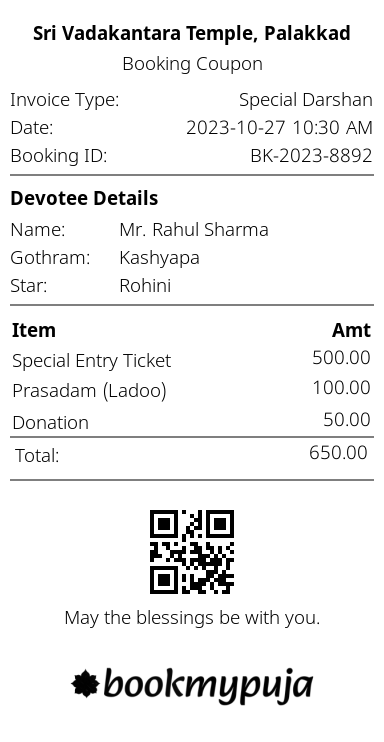
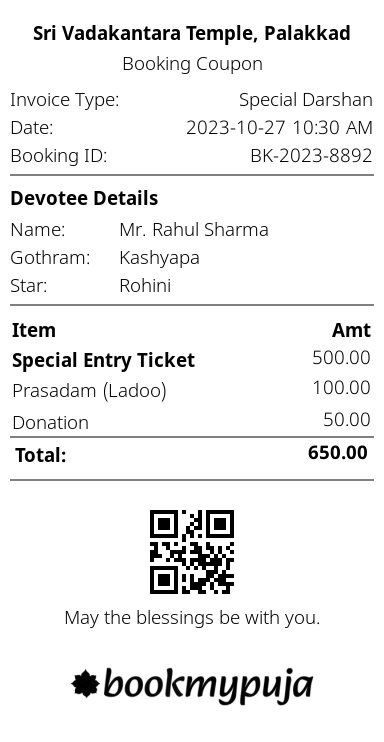
robust table cell formatting

Changed region(s): [[0.0312, 0.465, 0.5, 0.496], [0.7812, 0.5889, 0.9688, 0.6199], [0.0312, 0.5889, 0.1562, 0.6199]]

diff --git a/src/blocks/table_block.c b/src/blocks/table_block.c
@@ -12,9 +12,18 @@ typedef struct {
 } TableColumn;
 
 typedef struct {
+  char *content;
+  struct {
+    int font_size;        // 0 means inherit
+    char font_weight[32]; // empty means inherit
+    char align[16];       // empty means inherit
+  } format;
+} TableCell;
+
+typedef struct {
   TableColumn *columns;
   int column_count;
-  char ***rows; // Array of rows, each row is array of strings
+  TableCell **rows; // Array of rows, each row is array of TableCell
   int row_count;
   struct {
     struct {
@@ -79,7 +88,7 @@ static void *table_block_parse(json_object *json) {
       json_object_is_type(rows_arr, json_type_array)) {
 
     data->row_count = json_object_array_length(rows_arr);
-    data->rows = calloc(data->row_count, sizeof(char **));
+    data->rows = calloc(data->row_count, sizeof(TableCell *));
 
     for (int i = 0; i < data->row_count; i++) {
       json_object *row_arr = json_object_array_get_idx(rows_arr, i);
@@ -87,10 +96,32 @@ static void *table_block_parse(json_object *json) {
         int cols = json_object_array_length(row_arr);
         int safe_cols = (cols < data->column_count) ? cols : data->column_count;
 
-        data->rows[i] = calloc(data->column_count, sizeof(char *));
+        data->rows[i] = calloc(data->column_count, sizeof(TableCell));
         for (int j = 0; j < safe_cols; j++) {
-          json_object *cell = json_object_array_get_idx(row_arr, j);
-          data->rows[i][j] = strdup(json_object_get_string(cell));
+          json_object *cell_obj = json_object_array_get_idx(row_arr, j);
+
+          if (json_object_is_type(cell_obj, json_type_string)) {
+            // Legacy string format
+            data->rows[i][j].content = strdup(json_object_get_string(cell_obj));
+          } else if (json_object_is_type(cell_obj, json_type_object)) {
+            // New object format
+            json_object *val;
+            if (json_object_object_get_ex(cell_obj, "content", &val)) {
+              data->rows[i][j].content = strdup(json_object_get_string(val));
+            }
+
+            if (json_object_object_get_ex(cell_obj, "format", &val)) {
+              json_object *f_val;
+              if (json_object_object_get_ex(val, "font_size", &f_val))
+                data->rows[i][j].format.font_size = json_object_get_int(f_val);
+              if (json_object_object_get_ex(val, "font_weight", &f_val))
+                strncpy(data->rows[i][j].format.font_weight,
+                        json_object_get_string(f_val), 31);
+              if (json_object_object_get_ex(val, "align", &f_val))
+                strncpy(data->rows[i][j].format.align,
+                        json_object_get_string(f_val), 15);
+            }
+          }
         }
       }
     }
@@ -206,11 +237,20 @@ static int table_block_calculate_height(void *ptr, int width) {
     int max_row_h = 0;
     if (data->rows[r]) {
       for (int c = 0; c < data->column_count; c++) {
-        if (data->rows[r][c]) {
-          int h = calculate_cell_height(
-              cr, data->rows[r][c],
-              col_widths[c] - (2 * data->format.cell_padding),
-              DEFAULT_FONT_WEIGHT, data->format.font_size);
+        if (data->rows[r][c].content) {
+          // Determine font size and weight for this cell
+          int font_size = data->rows[r][c].format.font_size;
+          if (font_size == 0)
+            font_size = data->format.font_size;
+
+          const char *font_weight = data->rows[r][c].format.font_weight;
+          if (font_weight[0] == '\0')
+            font_weight = DEFAULT_FONT_WEIGHT;
+
+          int h = calculate_cell_height(cr, data->rows[r][c].content,
+                                        col_widths[c] -
+                                            (2 * data->format.cell_padding),
+                                        font_weight, font_size);
           if (h > max_row_h)
             max_row_h = h;
         }
@@ -335,11 +375,20 @@ static void table_block_render(void *ptr, BlockContext *ctx) {
     int max_row_h = 0;
     if (data->rows[r]) {
       for (int c = 0; c < data->column_count; c++) {
-        if (data->rows[r][c]) {
-          int h = calculate_cell_height(
-              ctx->cr, data->rows[r][c],
-              col_widths[c] - (2 * data->format.cell_padding),
-              DEFAULT_FONT_WEIGHT, data->format.font_size);
+        if (data->rows[r][c].content) {
+          // Determine font size and weight for this cell
+          int font_size = data->rows[r][c].format.font_size;
+          if (font_size == 0)
+            font_size = data->format.font_size;
+
+          const char *font_weight = data->rows[r][c].format.font_weight;
+          if (font_weight[0] == '\0')
+            font_weight = DEFAULT_FONT_WEIGHT;
+
+          int h = calculate_cell_height(ctx->cr, data->rows[r][c].content,
+                                        col_widths[c] -
+                                            (2 * data->format.cell_padding),
+                                        font_weight, font_size);
           if (h > max_row_h)
             max_row_h = h;
         }
@@ -350,10 +399,23 @@ static void table_block_render(void *ptr, BlockContext *ctx) {
       int row_height = max_row_h + (2 * data->format.cell_padding);
       int x = current_x;
       for (int c = 0; c < data->column_count; c++) {
-        if (data->rows[r] && data->rows[r][c]) {
-          render_cell(ctx->cr, data->rows[r][c], x, current_y, col_widths[c],
-                      data->columns[c].align, DEFAULT_FONT_WEIGHT,
-                      data->format.font_size, data->format.cell_padding);
+        if (data->rows[r] && data->rows[r][c].content) {
+          // Determine font size, weight, and align for this cell
+          int font_size = data->rows[r][c].format.font_size;
+          if (font_size == 0)
+            font_size = data->format.font_size;
+
+          const char *font_weight = data->rows[r][c].format.font_weight;
+          if (font_weight[0] == '\0')
+            font_weight = DEFAULT_FONT_WEIGHT;
+
+          const char *align = data->rows[r][c].format.align;
+          if (align[0] == '\0')
+            align = data->columns[c].align;
+
+          render_cell(ctx->cr, data->rows[r][c].content, x, current_y,
+                      col_widths[c], align, font_weight, font_size,
+                      data->format.cell_padding);
         }
 
         // Left border
@@ -410,7 +472,8 @@ static void table_block_destroy(void *ptr) {
     for (int i = 0; i < data->row_count; i++) {
       if (data->rows[i]) {
         for (int j = 0; j < data->column_count; j++) {
-          free(data->rows[i][j]);
+          // Free cell content
+          free(data->rows[i][j].content);
         }
         free(data->rows[i]);
       }
